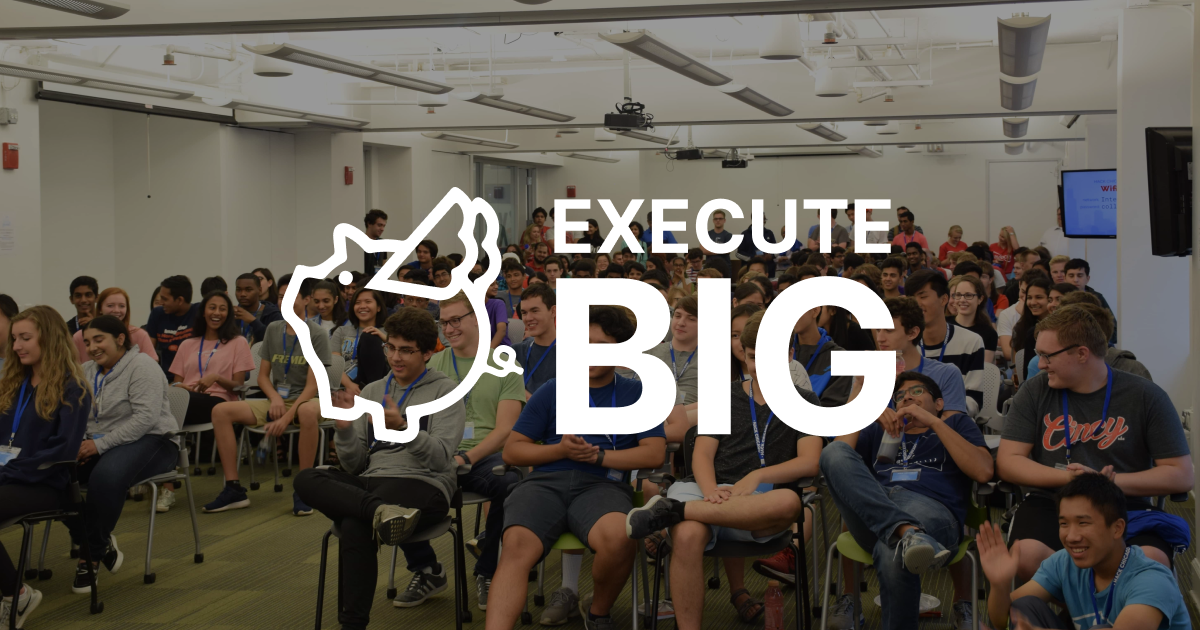
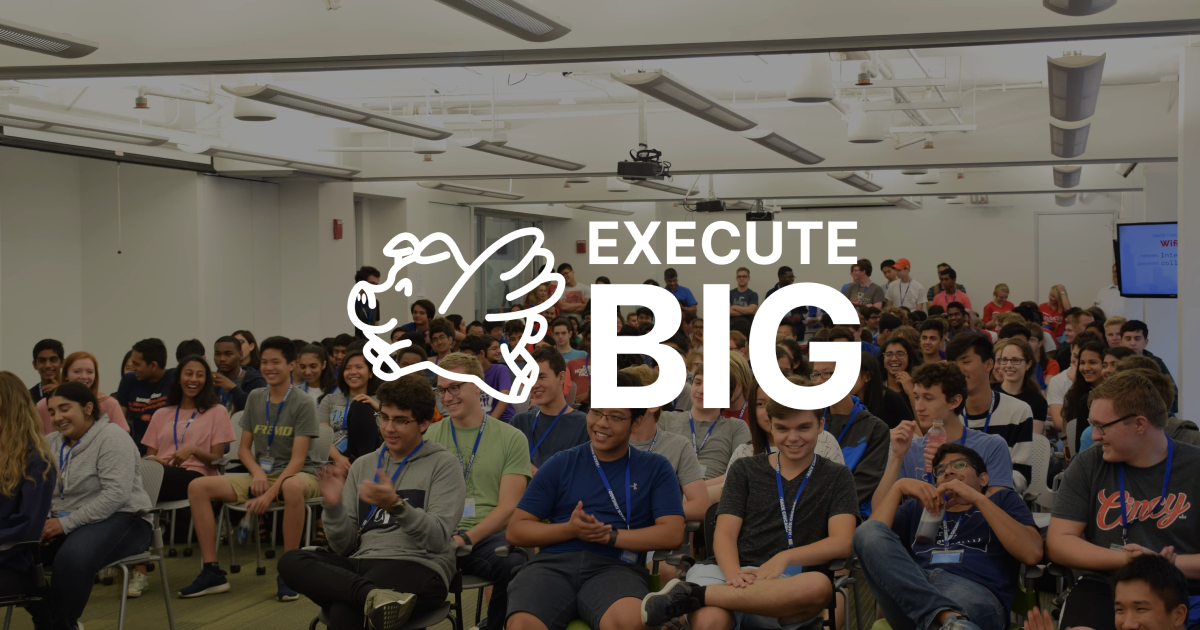
Merge all new branding

diff --git a/layouts/partials/footer/footer.html b/layouts/partials/footer/footer.html
@@ -7,8 +7,8 @@
     <a href="https://hackclub.com">
       <img
         class="is-pig is-tiny"
-        src="/vectors/pig.svg"
-        alt="Hack Club Flying Pig Banner"
+        src="/vectors/logo-blue.svg"
+        alt="Flying Pig"
       />
     </a>
     <p>
@@ -41,8 +41,7 @@
       <span class="is-hint">
         Fiscally sponsored by
         <a href="https://hackclub.com">The Hack Foundation</a>,<br />
-        a 501(c)(3) non-profit organization. EIN: 81-2908499<br />
-        Operated independently.
+        a 501(c)(3) non-profit organization. EIN: 81-2908499
       </span>
     </p>
   </div>

diff --git a/layouts/partials/header/nav.html b/layouts/partials/header/nav.html
@@ -1,12 +1,5 @@
 <nav class="navbar{{ if not (eq .Type "home") }} is-eb{{ end }}">
   <div class="navbar-brand">
-    <a class="navbar-item" href="/">
-      <img
-        src="/vectors/pig-square.svg"
-        alt="Execute Big Logo"
-        height="28"
-      />
-    </a>
     <div class="navbar-burger burger" data-target="uni-nav">
       <span></span>
       <span></span>

diff --git a/assets/global/scss/global.scss b/assets/global/scss/global.scss
@@ -214,7 +214,7 @@ a.button {
 }
 
 .logo-float {
-  width: 50px;
+  width: 80px;
   padding-bottom: 30px;
   margin-left: 10px;
   animation: float 3s ease-in-out infinite;
